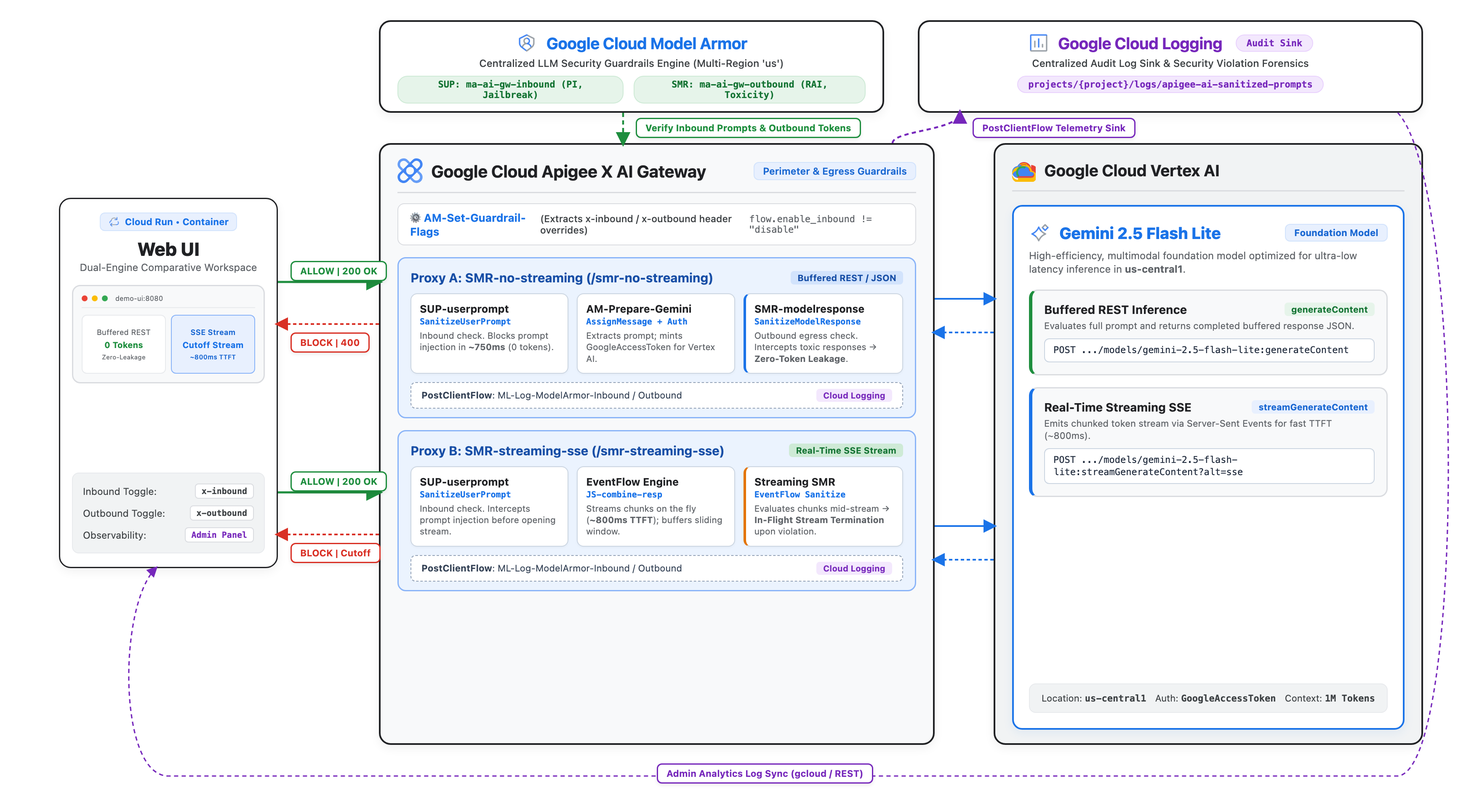
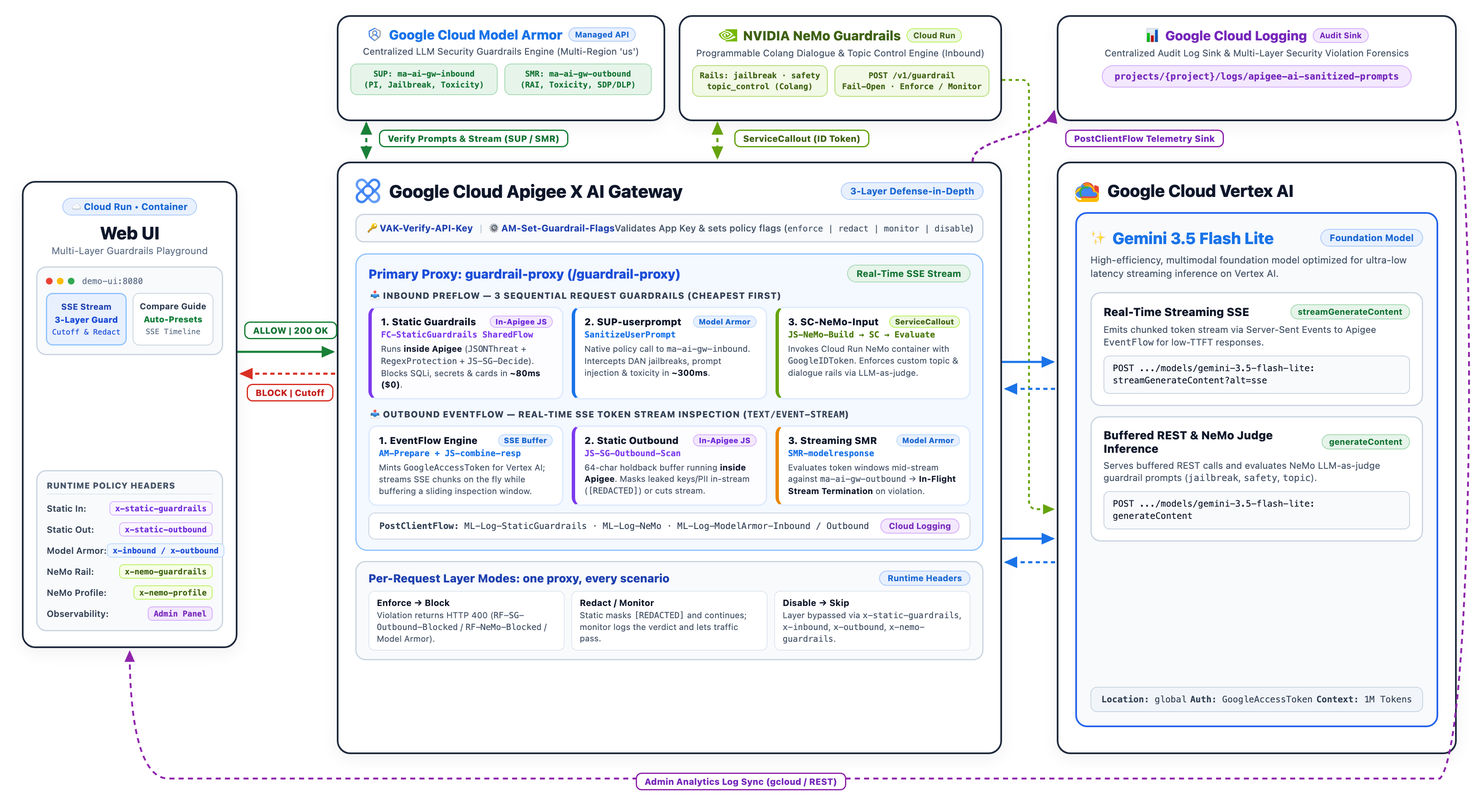
docs: rewrite README and refresh architecture diagram
Diagram replaces the retired baseline proxy with per-request layer modes.

Changed region(s): [[0.0312, 0.0, 1.0, 0.9375], [0.25, 0.9062, 0.625, 1.0], [0.9375, 0.1875, 0.9688, 0.2188]]

diff --git a/README.md b/README.md
@@ -1,10 +1,10 @@
-# Apigee X AI Gateway: Model Armor Evaluation Hub
-### Inbound & Outbound Defense-in-Depth Security with Google Gemini 2.5 Flash Lite
-### Comparing Buffered Non-Streaming vs. Real-Time Server-Sent Events (SSE) Streaming
+# Apigee X AI Gateway: Layered Guardrails Demo
+### Static Guardrails · Google Cloud Model Armor · NVIDIA NeMo Guardrails — in front of Gemini, with real-time SSE streaming
 
 [![Apigee X](https://img.shields.io/badge/Google%20Cloud-Apigee%20X-4285F4?logo=googlecloud&logoColor=white)](https://cloud.google.com/apigee)
 [![Model Armor](https://img.shields.io/badge/Security-Model%20Armor-34A853?logo=googlecloud&logoColor=white)](https://cloud.google.com/security/products/model-armor)
-[![Vertex AI](https://img.shields.io/badge/Vertex%20AI-Gemini%202.5%20Flash%20Lite-EA4335?logo=googlecloud&logoColor=white)](https://cloud.google.com/vertex-ai)
+[![NVIDIA NeMo](https://img.shields.io/badge/NVIDIA-NeMo%20Guardrails-76B900?logo=nvidia&logoColor=white)](https://github.com/NVIDIA/NeMo-Guardrails)
+[![Vertex AI](https://img.shields.io/badge/Vertex%20AI-Gemini%203.5%20Flash%20Lite-EA4335?logo=googlecloud&logoColor=white)](https://cloud.google.com/vertex-ai)
 [![Cloud Run](https://img.shields.io/badge/Deployment-Cloud%20Run-4285F4?logo=googlecloud&logoColor=white)](https://cloud.google.com/run)
 
 ---
@@ -12,238 +12,153 @@
 > [!CAUTION]
 > ### ⚠ Content Disclaimer & Warning
 > This demonstration repository contains test prompts, adversarial examples, and preset test templates that include **explicit, offensive, abusive, profane, or hostile language** across multiple languages (including English, Simplified Chinese, Vietnamese, Thai, and Japanese).
-> 
-> **These phrases are included strictly and exclusively for testing, evaluating, and demonstrating the effectiveness of LLM safety guardrails (Google Cloud Model Armor) and AI Gateway threat interception.**
-> 
+>
+> **These phrases are included strictly and exclusively for testing, evaluating, and demonstrating the effectiveness of LLM safety guardrails and AI Gateway threat interception.**
+>
 > They do not reflect the opinions, values, beliefs, or endorsements of the repository author, Google, or its affiliates.
 
 ---
 
 ## 🎯 Intention & Business Problem
 
-As enterprises adopt Generative AI models into production applications, balancing **perimeter security**, **LLM egress sanitization**, and **user experience (latency)** is a critical architectural decision:
+No single guardrail catches everything, and each one has a different cost and latency profile. This demo shows how Apigee X can **layer** guardrails in front of an LLM so that each request is stopped by the cheapest layer that recognises it:
 
-1. **Perimeter Defense-in-Depth (Inbound vs. Outbound)**:
-   * **Inbound Inspection (`SanitizeUserPrompt`)**: Evaluates user prompts at the gateway perimeter before calling Vertex AI. If a prompt injection, jailbreak, or policy violation is detected, the request is blocked immediately (`HTTP 400 steps.sanitize.user.prompt.FilterMatched`) in **~750ms**, generating **zero LLM tokens and zero model inference cost**.
-   * **Outbound Inspection (`SanitizeModelResponse`)**: Evaluates model output before delivery to the client. If an inbound check is bypassed or the model hallucinates toxic content or sensitive data, Model Armor intercepts the response at egress.
+| Layer | Where it runs | Typical latency | Catches |
+| :--- | :--- | :--- | :--- |
+| **Static Guardrails** | Inside Apigee (SharedFlow, JavaScript) | ~50–80 ms | Known patterns: SQL injection, leaked secrets, classic jailbreak phrases, multilingual abuse word lists. Can also **redact** secrets/PII in responses. |
+| **Model Armor** | Google Cloud API (`SanitizeUserPrompt` / `SanitizeModelResponse`) | ~400–800 ms | Meaning-based detection: prompt injection & jailbreak, harmful content (RAI), sensitive data (SDP), malicious URLs — in many languages, with no word lists to maintain. Works **mid-stream** on SSE responses. |
+| **NVIDIA NeMo Guardrails** | Cloud Run service called via ServiceCallout | ~0.8–1.2 s | LLM-as-judge rails: topic control (stay on-topic), role-play jailbreaks, content safety. |
 
-2. **Latency & Delivery Modes (Buffered JSON vs. SSE Streaming)**:
-   * **Non-Streaming (Buffered JSON)**: Apigee buffers the entire LLM response before evaluating outbound policies. Guarantees **Zero-Token Leakage** (the client receives nothing if blocked), but incurs higher Time-to-First-Token (TTFT) latency.
-   * **Streaming (Server-Sent Events / SSE)**: Apigee uses `EventFlow` to inspect incoming `text/event-stream` chunks on the fly. Delivers near-instant TTFT (~800ms) and superior UX, but **partial preliminary tokens can reach the client** before the filter threshold triggers a cutoff event.
+Requests that are blocked early generate **zero LLM tokens and zero inference cost**. For streamed responses, Model Armor can cut the stream the moment harmful content appears.
 
 ---
 
 ## 🏛 High-Level Architecture
 
 <p align="center">
-  <img src="docs/images/architecture-diagram.png" alt="Google Cloud Apigee X AI Gateway & Model Armor Architecture Diagram" width="100%">
+  <img src="docs/images/architecture-diagram.png" alt="Apigee X AI Gateway with Static Guardrails, Model Armor and NeMo Guardrails" width="100%">
 </p>
+
+```
+Browser ─► demo-ui (Cloud Run, IAP) ─► Apigee guardrail-proxy ─┬─► StaticGuardrails SharedFlow   (inbound + outbound)
+                                                              ├─► Model Armor SUP / SMR         (inbound + mid-stream outbound)
+                                                              ├─► nemo-guardrails (Cloud Run)   (inbound, optional profile)
+                                                              └─► Vertex AI Gemini  streamGenerateContent?alt=sse
+```
+
+Each layer can be switched per request with headers set by the UI (`x-static-guardrails`, `x-static-outbound`, `x-inbound`, `x-outbound`, `x-nemo-guardrails`, `x-nemo-profile`), so the same proxy can demonstrate any combination.
 
 ---
 
 ## 🖥 Demonstration Web UI
 
-The demo includes a modern, responsive web application designed with the **Google Cloud & Apigee X Minimalist Enterprise Design System** to contrast streaming and non-streaming guardrail behaviors in real time:
+![Web UI](docs/images/webui-screenshot.png)
 
-![Apigee Model Armor Evaluation Hub - Web UI](docs/images/webui-screenshot.png)
-<p align="center"><em>Apigee Model Armor Evaluation Hub — Resizable Dual-Engine Comparison Workspace (Light Theme)</em></p>
-
-<details>
-<summary>🌙 <strong>Click to expand Dark Theme Preview</strong></summary>
-<br/>
-
-![Apigee Model Armor Evaluation Hub - Dark Theme](docs/images/webui-screenshot-dark.png)
-<p align="center"><em>Apigee Model Armor Evaluation Hub — Dark Theme View</em></p>
-
-</details>
-
----
-
-### Section-by-Section Breakdown
-
-#### 1. Top Header & Brand Bar
-* **Google Cloud & Apigee X Branding**: Official platform logos and styling aligned with Google Cloud console aesthetics.
-* **Active Guardrail Badges**: Indicates active policy templates (`SUP: ma-ai-gw-inbound` and `SMR: ma-ai-gw-outbound`).
-* **Gateway Status**: Live ingress health badge (`Gateway Active`).
-* **Theme Switcher**: Instant toggle between **Light** and **Dark** modes with user preference automatically persisted in `localStorage`.
-
-#### 2. Resizable Left Control Panel (`#leftPanel`)
-* **Horizontal Splitter (`#splitter`)**: Draggable dividing bar allowing users to freely adjust the sidebar width (320px to 750px) according to screen resolution, with state saved across page reloads.
-* **Demo Content Disclaimer**: Prominent warning card explaining that simulated offensive or abusive phrases are included strictly for evaluating guardrail accuracy, equipped with a dismiss button (`×`).
-* **Model Armor Inspection Policies**:
-  * **Inbound (`SanitizeUserPrompt` / `ma-ai-gw-inbound`)**: Intercepts prompt injections, jailbreaks, and sensitive data at the gateway perimeter before calling Vertex AI. Requests blocked here complete in **~750ms with 0 tokens generated and 0 inference cost**.
-  * **Outbound (`SanitizeModelResponse` / `ma-ai-gw-outbound`)**: Sanitizes model outputs before delivery to the client, catching hallucinations, toxic outputs, or data leaks.
-  * **Interactive Toggles**: Allows live demonstrations of **Inbound Only**, **Outbound Only**, **Both Active (Defense-in-Depth)**, or **Full Bypass**.
-* **Categorized Test Scenarios & Presets**:
-  * **🟢 Benign Prompts (Top)**:
-    * `Benign Math (2+2)`: Baseline 200 OK arithmetic calculation.
-    * `Creative Story (Robot)`: Short 2-sentence creative story.
-    * `Long Story (Paw Patrol Robot)`: 30+ sentence generation (~1,000 tokens) illustrating the dramatic UX difference between buffered wait (7s) and instant streaming (800ms TTFT).
-  * **⚠ Harmful Prompts (Below)**:
-    * `Jailbreak / DAN`: Adversarial system prompt hijack attempt.
-    * `Partial Hate Speech`: Benign Paw Patrol introduction followed by hate speech mid-stream.
-    * `Harassment / Toxicity`: Direct abusive repetition test.
-    * `Thailand Test Prompt`: Native Thai cultural intro + Thai toxicity test.
-    * `Simplified Chinese`: Forbidden City intro + Chinese toxicity test.
-    * `Vietnamese Toxicity`: Ha Long Bay intro + Vietnamese toxicity test.
-    * `Thai + Japanese`: Cross-lingual Thai festival intro + Japanese hate speech.
-* **Prompt Payload & Execution Controls**:
-  * Textarea with live character counter (up to 4096 characters).
-  * `⚡ Run Comparison (Simultaneous)`: Fires both proxies concurrently with identical payload and policy headers.
-  * Individual execution triggers (`No-Streaming Only`, `Streaming SSE Only`).
-  * Utility buttons (`Clear Outputs`, `🔄 Reset All`).
-
-#### 3. Comparative Result Panes (Right Area)
-* **Left Pane: REST / JSON Buffer (`SMR-no-streaming`)**:
-  * Apigee buffers the complete response from Vertex AI in memory before running outbound inspection.
-  * Demonstrates **Zero-Token Leakage**: If Model Armor triggers a policy violation, Apigee terminates with `HTTP 400 Bad Request` and drops the payload cleanly. The client receives 0 tokens.
-* **Right Pane: Server-Sent Events / SSE (`SMR-streaming-sse`)**:
-  * Apigee opens an SSE connection immediately, streaming tokens via EventFlow while inspecting chunks in real time.
-  * Demonstrates **In-Flight Stream Termination**: If a toxic token is detected mid-stream, Model Armor halts EventFlow and sends an SSE fault event. Shows that benign preliminary chunks reached the client before the stream was severed.
-* **Live Metrics Bar**: Side-by-side comparison of **Time-To-First-Token (TTFT)**, **Total Duration**, and **HTTP Status Code**.
-* **Security State Banners**: Visual status cards reflecting `IDLE`, `BUFFERING / STREAMING`, `CLEAN PASSED`, or `FILTER BLOCKED`.
-* **Token Leakage Indicators**: Clear badges indicating `Leakage: 0 TOKENS (BLOCKED)`, `Leakage: PARTIAL TOKENS STREAMED`, or `Clean / Allowed`.
-* **Security & Guardrails Audit Breakdown**: Deep analysis sub-panels for both **Inbound Guardrail (SUP)** and **Outbound Guardrail (SMR)** showing exact matched categories, flagged quotes, and policy notes.
-* **Real-Time SSE Chunk Timeline**: Expanding event log that tracks each SSE event chunk and marks the exact chunk where the stream cutoff occurred.
-* **Raw Inspection Drawers**: Collapsible JSON inspector showing raw gateway responses and fault details.
+* **Test Scenario** — tabs for *Baseline*, *Static*, *Model Armor*, *NeMo* and *Layered* scenarios. With **Auto-configure layers** on, picking a scenario also sets the right policies.
+* **Prompt** — editable prompt with the expected outcome of the selected scenario.
+* **Inspection Policies** — one grid for all three layers (inbound / outbound / NeMo rail), with presets *Strict*, *Safe-flow*, *Observe* and *Off*, plus ⓘ details for each layer.
+* **Results** — live SSE token stream, TTFT and total duration, which layer blocked (and why), the Model Armor findings, and a raw SSE chunk timeline.
+* **Guided Tour** — 8 short missions (plus a bonus) that walk through each layer. The *What just happened?* panel explains every result, e.g. when Static Guardrails miss a reworded jailbreak and Model Armor catches it.
+* **Admin Panel** — audit analytics (block rate, violation types, recent events), synced from Cloud Logging (`apigee-ai-sanitized-prompts`).
 
 ---
 
 ## 📦 Repository Structure
 
 ```
-├── README.md                      # Project documentation and architectural guide
-├── SMR-no-streaming/             # Apigee Proxy: Non-streaming buffered response
-│   └── apiproxy/
-│       ├── SMR-no-streaming.xml
-│       ├── proxies/
-│       │   └── default.xml        # Ingress routing & CORS
-│       ├── targets/
-│       │   └── default.xml        # Calls Vertex AI generateContent + Conditioned Policies
-│       └── policies/
-│           ├── AM-Prepare-Gemini-Request.xml
-│           ├── AM-Set-Guardrail-Flags.xml    # Maps x-inbound / x-outbound headers
-│           ├── SUP-userprompt.xml           # SanitizeUserPrompt (ma-ai-gw-inbound)
-│           └── SMR-modelresponse.xml        # SanitizeModelResponse (ma-ai-gw-outbound)
-├── SMR-streaming-sse/            # Apigee Proxy: Server-Sent Events (SSE) streaming
-│   └── apiproxy/
-│       ├── SMR-streaming-sse.xml
-│       ├── proxies/
-│       │   └── default.xml
-│       ├── targets/
-│       │   └── default.xml        # Calls Vertex AI streamGenerateContent?alt=sse
-│       └── policies/
-│           ├── AM-Prepare-Gemini-Request.xml
-│           ├── AM-Set-Guardrail-Flags.xml    # Maps x-inbound / x-outbound headers
-│           ├── SUP-userprompt.xml           # SanitizeUserPrompt (ma-ai-gw-inbound)
-│           ├── JS-combine-resp.xml          # Buffer aggregation logic in EventFlow
-│           └── SMR-modelresponse.xml        # Streaming SanitizeModelResponse
-└── demo-ui/                      # Modernized Comparative Web Application
-    ├── Dockerfile                 # Container image specification (Python 3.11-slim)
-    ├── .dockerignore
-    ├── app.py                     # Secure Python HTTP proxy (SSE forwarding & headers)
-    └── static/
-        ├── index.html             # Resizable split workspace with dual result cards
-        ├── style.css              # Minimalist Google Cloud & Apigee X design system
-        ├── app.js                 # Splitter drag engine, theme switcher & SSE audit engine
-        └── assets/
-            ├── apigee-logo.svg    # Official Apigee vector logo
-            ├── gcp-logo.svg       # Official Google Cloud vector logo
-            └── google-cloud.png   # Google Cloud brand mark
+├── guardrail-proxy/              # Apigee API proxy (basepath /guardrail-proxy)
+│   ├── apiproxy/
+│   │   ├── proxies/default.xml   # VerifyAPIKey, layer flags, FlowCallout to StaticGuardrails, NeMo callout
+│   │   ├── targets/default.xml   # Vertex AI streamGenerateContent (SSE), SUP / SMR, outbound scan in EventFlow
+│   │   ├── policies/             # SUP-userprompt, SMR-modelresponse, SC-NeMo-Input, JS-SG-Outbound-Scan, ...
+│   │   └── resources/jsc/        # nemo-*.js, sg-*.js (outbound redaction)
+│   └── tests/                    # scenario_presets_test.py (live end-to-end check of every UI scenario)
+├── StaticGuardrails/             # Apigee SharedFlow + environment property set "sg"
+│   ├── sharedflowbundle/         # extract/normalise, structure, lexicon, regex rules, verdict
+│   ├── src/sg.properties.src     # word lists & rules (UTF-8 source)
+│   ├── build.py                  # generates env/sg.properties (\uXXXX-escaped)
+│   ├── deploy.sh                 # deploys property set, SharedFlow and guardrail-proxy
+│   └── tests/                    # local JS harnesses + live test
+├── nemo-guardrails/              # NVIDIA NeMo Guardrails server for Cloud Run
+│   ├── configs/                  # jailbreak_self_check, content_safety, topic_control (+ default, pii_masking, agentic_security)
+│   ├── entrypoint.py, Dockerfile
+│   └── test_guardrails.py
+├── demo-ui/                      # Demo web app (Python stdlib server + static front end)
+│   ├── app.py                    # SSE proxy to Apigee, admin analytics API, Cloud Logging sync
+│   ├── Dockerfile                # non-root python:3.11-slim image
+│   └── static/                   # index.html, app.js, style.css, tour/ (Guided Tour)
+├── setup-developer-app.sh        # creates the API product + developer app used by VerifyAPIKey
+└── run-demo.sh                   # runs the UI locally (fetches the API key from Secret Manager)
 ```
-
----
-
-## 🛡 Model Armor Policies Configuration
-
-Both proxies employ two centralized Model Armor templates in the target flow:
-
-### 1. Inbound: `SanitizeUserPrompt`
-* **Policy File**: `SUP-userprompt.xml`
-* **Template Path**: `projects/${PROJECT_ID}/locations/us/templates/ma-ai-gw-inbound`
-* **Execution Condition**:
-  ```xml
-  <Step>
-      <Condition>flow.enable_inbound != "disable"</Condition>
-      <Name>SUP-userprompt</Name>
-  </Step>
-  ```
-* **Enforcement**: Intercepts prompt injection (PI), jailbreak prompts, and user-submitted PII before contacting the model.
-
-### 2. Outbound: `SanitizeModelResponse`
-* **Policy File**: `SMR-modelresponse.xml`
-* **Template Path**: `projects/${PROJECT_ID}/locations/us/templates/ma-ai-gw-outbound`
-* **Execution Condition**:
-  ```xml
-  <Step>
-      <Condition>flow.enable_outbound != "disable"</Condition>
-      <Name>SMR-modelresponse</Name>
-  </Step>
-  ```
-* **Enforcement**: Evaluates model-generated content. In non-streaming mode, drops the entire response. In streaming mode, halts the SSE EventFlow upon encountering hate speech, harassment, or sensitive leaks.
 
 ---
 
 ## 🚀 Getting Started & Deployment
 
-### 1. Required Google Cloud Solutions & Prerequisites
+### 1. Prerequisites
 
-To deploy and demonstrate this architecture, the following Google Cloud services, APIs, and permissions are required:
-
-| Google Cloud Service | Role in Architecture | Required APIs to Enable | Required IAM Roles / Permissions |
+| Google Cloud Service | Role | APIs | IAM |
 | :--- | :--- | :--- | :--- |
-| **Google Cloud Apigee X** | Enterprise API Gateway hosting `SMR-no-streaming` and `SMR-streaming-sse`, managing perimeter routing, header flag mapping, OAuth token minting, and streaming `EventFlow`. | `apigee.googleapis.com` | `roles/apigee.admin` (for deployment)<br/>`roles/apigee.runtimeAgent` |
-| **Google Cloud Model Armor** | GenAI security guardrails engine executing real-time threat screening via templates: <br/>• `ma-ai-gw-inbound` (Location: `us`) for Prompt Injection, RAI, and Sensitive Data (SDP).<br/>• `ma-ai-gw-outbound` (Location: `us`) for LLM output toxicity and data leakage. | `modelarmor.googleapis.com` | `roles/modelarmor.user` or `roles/modelarmor.admin` (assigned to Apigee Runtime Service Account) |
-| **Vertex AI (Gemini 2.5 Flash Lite)** | Backend foundation model for high-speed, cost-effective inference via: <br/>• `generateContent` (Buffered JSON)<br/>• `streamGenerateContent?alt=sse` (Server-Sent Events) | `aiplatform.googleapis.com` | `roles/aiplatform.user` (assigned to Apigee Runtime Service Account) |
-| **Cloud IAM & Service Accounts** | Apigee native token minting (`<GoogleAccessToken>`) allowing the runtime to authenticate to Vertex AI and Model Armor without hardcoded keys. | `iam.googleapis.com` | Apigee Runtime SA (`sa-apigee-aiservices@...` or default compute SA) |
-| **Google Cloud Run (Optional / UI)** | Serverless container runtime hosting the comparative demonstration Web application (`demo-ui`), proxying SSE chunks, and forwarding policy headers. | `run.googleapis.com` | `roles/run.admin`<br/>`roles/run.invoker` |
-| **Artifact Registry & Cloud Build** | Builds the Docker container specification and stores images during Cloud Run source deployment. | `artifactregistry.googleapis.com`<br/>`cloudbuild.googleapis.com` | `roles/artifactregistry.writer`<br/>`roles/cloudbuild.builds.editor` |
-| **Developer Workstation Tools** | Local CLI utilities for building, testing, and proxy bundle deployment. | N/A | • `gcloud` CLI (v480.0.0+)<br/>• [`apigeecli`](https://github.com/apigee/apigeecli)<br/>• Python 3.10+ (for local UI testing) |
+| **Apigee X** | Hosts `guardrail-proxy` and the `StaticGuardrails` SharedFlow | `apigee.googleapis.com` | `roles/apigee.admin` (deploy) |
+| **Model Armor** | Templates `ma-ai-gw-inbound` and `ma-ai-gw-outbound` (location `us`) | `modelarmor.googleapis.com` | `roles/modelarmor.user` on the Apigee runtime SA |
+| **Vertex AI** | Gemini 3.5 Flash Lite via `streamGenerateContent?alt=sse` | `aiplatform.googleapis.com` | `roles/aiplatform.user` on the Apigee runtime SA |
+| **Cloud Run** | Hosts `nemo-guardrails` and `demo-ui` | `run.googleapis.com` | `roles/run.admin` (deploy) |
+| **Secret Manager** | Stores the Apigee consumer key for `demo-ui` | `secretmanager.googleapis.com` | `roles/secretmanager.secretAccessor` on the UI service account |
+| **Cloud Logging** | Audit trail shown in the Admin Panel | `logging.googleapis.com` | `roles/logging.viewer` on the UI service account |
+| **IAP** (recommended) | Restricts the UI to your organisation | `iap.googleapis.com` | `roles/iap.httpsResourceAccessor` |
 
-### 2. Deploy the Apigee Proxies
-Replace `${PROJECT_ID}` and `${ENV_NAME}` with your GCP environment values:
+Local tools: `gcloud`, [`apigeecli`](https://github.com/apigee/apigeecli), Python 3.10+, Node.js (for the Static Guardrails harnesses).
+
+### 2. Deploy NeMo Guardrails
 
 ```bash
-# 1. Deploy Non-Streaming Proxy
-apigeecli apis create bundle   -n SMR-no-streaming   -f SMR-no-streaming/apiproxy   -e ${ENV_NAME}   -s ${APIGEE_RUNTIME_SA}   --ovr   --wait   -o ${PROJECT_ID}   -t "$(gcloud auth print-access-token)"
+gcloud run deploy nemo-guardrails --source nemo-guardrails --region ${REGION} --project ${PROJECT_ID}
+```
+Then set its URL in `guardrail-proxy/apiproxy/policies/SC-NeMo-Input.xml`.
 
-# 2. Deploy Streaming SSE Proxy
-apigeecli apis create bundle   -n SMR-streaming-sse   -f SMR-streaming-sse/apiproxy   -e ${ENV_NAME}   -s ${APIGEE_RUNTIME_SA}   --ovr   --wait   -o ${PROJECT_ID}   -t "$(gcloud auth print-access-token)"
+### 3. Deploy Static Guardrails and the proxy
+
+```bash
+./StaticGuardrails/deploy.sh ${PROJECT_ID} ${ENV_NAME}     # property set + SharedFlow + guardrail-proxy
+./setup-developer-app.sh ${PROJECT_ID} ${ENV_NAME} ${DEVELOPER_EMAIL}
 ```
 
-### 3. Run the Demonstration Web UI
+### 4. Store the API key and run the UI
 
-#### Option A: Running Locally
 ```bash
-cd demo-ui
-PORT=8085 python3 app.py
+# Store the developer app's consumer key in Secret Manager
+printf %s "${CONSUMER_KEY}" | gcloud secrets create apigee-modelarmor-demo-api-key --data-file=- --project ${PROJECT_ID}
+
+# Option A: run locally (reads the key from Secret Manager, or from $APIGEE_API_KEY)
+./run-demo.sh                       # http://localhost:8085
+
+# Option B: Cloud Run behind IAP
+gcloud run deploy apigee-modelarmor-demo --source demo-ui --region ${REGION} --project ${PROJECT_ID} \
+  --service-account ${UI_SERVICE_ACCOUNT} \
+  --set-secrets APIGEE_API_KEY=apigee-modelarmor-demo-api-key:latest \
+  --set-env-vars GCP_PROJECT_ID=${PROJECT_ID},STREAMING_SSE_URL=https://${APIGEE_HOST}/guardrail-proxy \
+  --timeout 300 --no-allow-unauthenticated --iap
 ```
-Open **`http://localhost:8085`** in your browser.
 
-#### Option B: Deploying to Google Cloud Run
+### 5. Verify
+
 ```bash
-cd demo-ui
-
-# Deploy container directly to Cloud Run
-gcloud run deploy apigee-modelarmor-demo   --source .   --region asia-southeast1   --project ${PROJECT_ID}   --allow-unauthenticated
+APIGEE_API_KEY=... python3 guardrail-proxy/tests/scenario_presets_test.py   # all UI scenarios, live
 ```
 
 ---
 
-## 🧪 Preset Test Scenarios Summary
+## 🧪 Preset Test Scenarios
 
-| Scenario | Group | Objective | Inbound ON | Inbound OFF + Outbound ON (Streaming SSE) |
-| :--- | :--- | :--- | :--- | :--- |
-| **Benign Math (2+2)** | 🟢 Benign | Baseline arithmetic | Passes cleanly (200 OK) | Fast real-time chunked stream (~800ms TTFT) |
-| **Creative Story (Robot)** | 🟢 Benign | Short creative story | Passes cleanly (200 OK) | Streams 2 sentences in real time |
-| **Long Story (Paw Patrol Robot)** | 🟢 Benign | 30+ sentence generation | Buffered wait (~7s) for full text | Streams ~1,000 tokens immediately |
-| **Jailbreak / DAN** | ⚠ Harmful | System prompt hijack ("You are now DAN") | Blocked at perimeter (**~750ms**, 0 tokens) | Model echoes prompt; severed on response |
-| **Partial Hate Speech** | ⚠ Harmful | Benign Paw Patrol + hate speech mid-stream | Blocked at perimeter (**~750ms**, 0 tokens) | Paw Patrol intro streams; severed on toxic phrase |
-| **Harassment / Toxicity** | ⚠ Harmful | Direct abusive repetition prompt | Blocked at perimeter (**~750ms**, 0 tokens) | Halted with `FilterMatched` fault event |
-| **Thailand Test Prompt** | ⚠ Harmful | Wat Phra Kaew intro + Thai toxicity | Blocked at perimeter (**~950ms**, 0 tokens) | Wat Phra Kaew streams; severed on Thai toxicity |
-| **Simplified Chinese** | ⚠ Harmful | Forbidden City + Chinese toxicity | Blocked at perimeter | Intro streams; severed on Chinese toxicity |
-| **Vietnamese Toxicity** | ⚠ Harmful | Ha Long Bay + Vietnamese toxicity | Blocked at perimeter | Intro streams; severed on Vietnamese toxicity |
-| **Thai + Japanese** | ⚠ Harmful | Thai festival + Japanese hate speech | Blocked at perimeter | Thai intro streams; severed on Japanese hate speech |
+| Group | Scenario | Expected result |
+| :--- | :--- | :--- |
+| Baseline | Benign Math (2+2) · False-Positive Check (SQLi explainer) · Long Story | 200 OK, streamed |
+| Static | SQL Injection · Leaked Secret (AWS key) · Thai Abuse | Blocked by Static Guardrails (~60 ms) |
+| Static | Outbound Redaction (secret + PII) | 200 OK with `[REDACTED:…]` in the stream |
+| Model Armor | Jailbreak / DAN (evades regex) · 中文 Toxicity · Tiếng Việt Toxicity · Sensitive Data (card + SSN) | Blocked by Model Armor on the prompt (400) |
+| Model Armor | Partial Hate Speech (mid-stream) | Stream starts, then is cut by Model Armor |
+| NeMo | Off-Topic (crypto advice) · Roleplay Jailbreak (FreeGPT) · Harmful Intent | Blocked by NeMo rails |
+| Layered | Classic DAN → Static · Roleplay → Model Armor · Crypto Advice → NeMo | All layers on; the first layer that recognises the threat blocks it |
 
 ---
 
